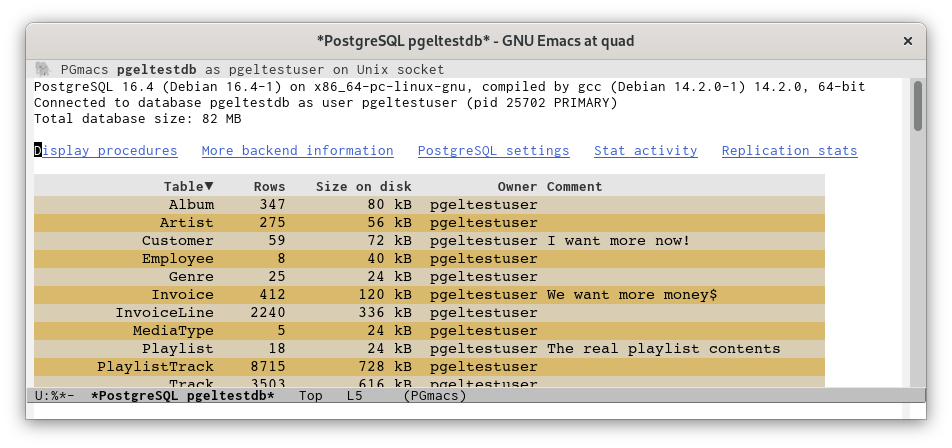
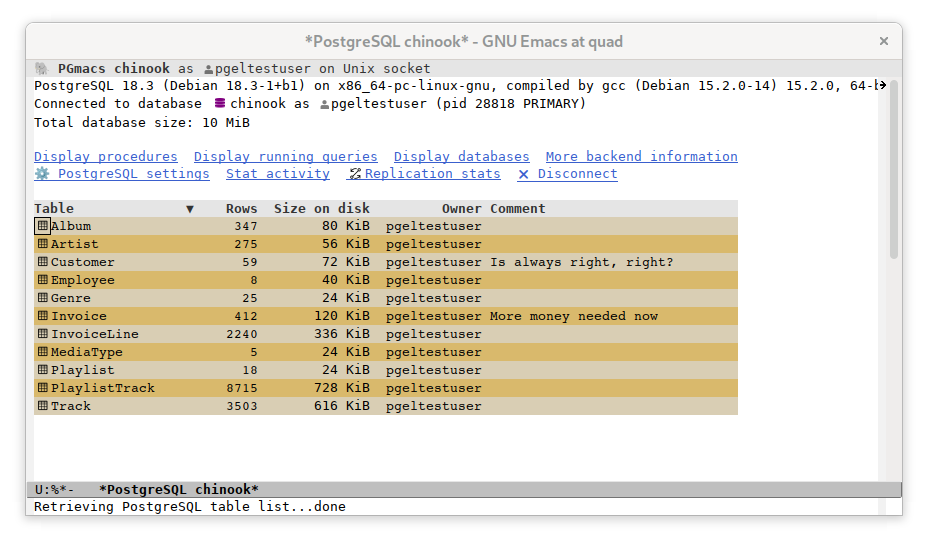
Doc: update screenshots

diff --git a/doc/src/quickstart.md b/doc/src/quickstart.md
@@ -59,7 +59,7 @@ git clone https://github.com/emarsden/pgmacs/
 >
 > **Setting up a PostgreSQL user with limited privileges**: You should be careful about giving
 > random software you downloaded from the internet access to your PostgreSQL data. I would recommend
-> you take a quick read through the source code (it’s quite short, only 3000 lines) before running
+> you take a quick read through the source code (it’s quite short, only 4300 lines) before running
 > it. Before taking the time to do this, you can also run PGmacs as a PostgreSQL user which is not
 > allowed to insert or delete data. Here’s how to do this (using predefined roles that are available
 > from PostgreSQL v14 onwards):
@@ -88,19 +88,22 @@ if they are set:
 - `POSTGRES_PASSWORD`, `POSTGRESQL_PASSWORD`, `PGPASSWORD`
 
 These semi-standardized variable names are used by the [official Docker image for
-PostgreSQL](https://hub.docker.com/_/postgres/), the more sophisticated [Bitnami PostgreSQL
-image](https://registry.hub.docker.com/r/bitnami/postgresql)) and by the official psql PostgreSQL client.
+PostgreSQL](https://hub.docker.com/_/postgres/) and by the official psql PostgreSQL client.
 
 ![Screenshot connection widget](img/connect-widget-table-list.gif)
 
 It will then open the main PGmacs [table-list buffer](table-list.html), which will show you a list
 of the tables available in the database.
 
-You can also open PGmacs with a PostgreSQL connection string
+You can also open PGmacs with a PostgreSQL **connection string**
 
     M-x pgmacs-open-string RET user=myself port=5432 dbname=mydb
 
-or with a PostgreSQL connection URI
+or with a PostgreSQL **connection URI**
+
+    M-x pgmacs-open-uri RET postgresql://myuser:mysecret@db.example.org/dbname
+
+or a connection URI for a local Unix socket connection:
 
     M-x pgmacs-open-uri RET postgresql://%2Fvar%2Flib%2Fpostgresql/dbname
 

diff --git a/doc/src/about.md b/doc/src/about.md
@@ -43,7 +43,7 @@ it to modify real PostgreSQL databases used in production.
 ## Supported versions
 
 **Emacs version**: PGmacs requires Emacs version 29. It has also been tested on the
-pre-release v30. It has mostly been tested on Linux, but should work as expected on Microsoft
+pre-release v31. It has mostly been tested on Linux, but should work as expected on Microsoft
 Windows and MacOS. It works both in graphical mode and in the terminal.
 
 > [!NOTE]

diff --git a/doc/src/row-list.md b/doc/src/row-list.md
@@ -3,7 +3,7 @@
 A **row-list buffer** shows some metainformation on the table and its columns, then the row data in
 tabular form, as illustrated below.
 
-![Screenshot table](img/screenshot-table.png)
+![Screenshot table](img/screenshot-row-list.png)
 
 If the table contains a large number of rows, the contents will be **paginated**, with `Next` and
 `Previous` buttons to move page by page. The number of rows in each page is determined by the
